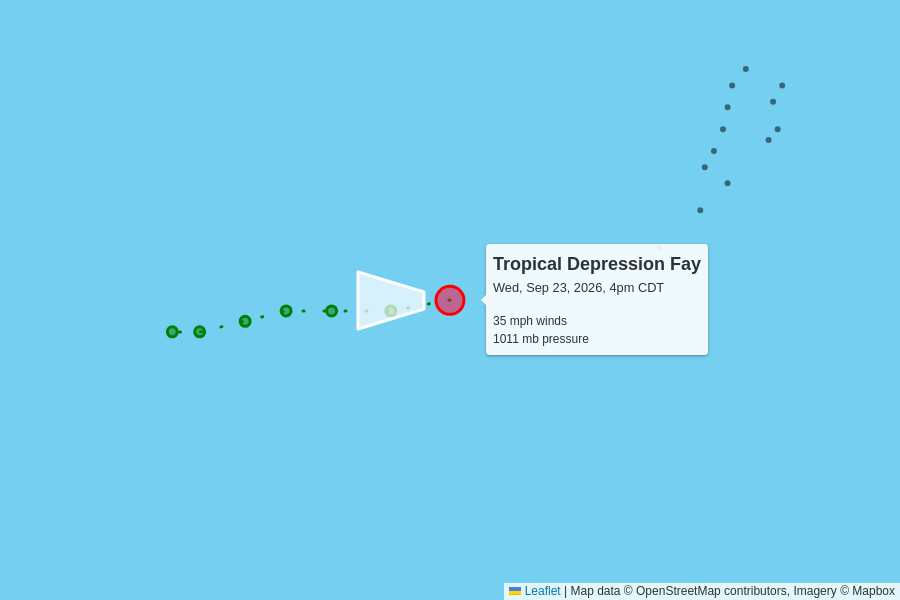
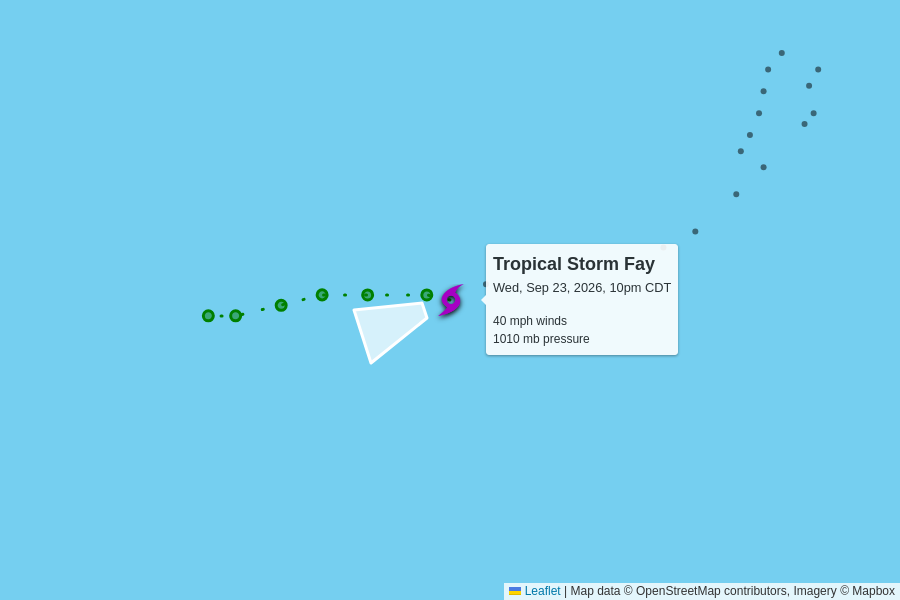
automatic update

diff --git a/docs/2026.html b/docs/2026.html
@@ -45,13 +45,13 @@
       <grid-container>
           <grid-row>
             <script type="text/json" id="storm_data_AL062026">
-              {"pressure":[{"timestamp":"2026-09-19T15:00:00.000Z","value":1009},{"timestamp":"2026-09-19T21:00:00.000Z","value":1007},{"timestamp":"2026-09-20T03:00:00.000Z","value":1007},{"timestamp":"2026-09-20T09:00:00.000Z","value":1004},{"timestamp":"2026-09-20T15:00:00.000Z","value":1004},{"timestamp":"2026-09-20T21:00:00.000Z","value":999},{"timestamp":"2026-09-21T03:00:00.000Z","value":995},{"timestamp":"2026-09-21T09:00:00.000Z","value":997},{"timestamp":"2026-09-21T15:00:00.000Z","value":1000},{"timestamp":"2026-09-21T21:00:00.000Z","value":1004},{"timestamp":"2026-09-22T03:00:00.000Z","value":1008},{"timestamp":"2026-09-22T09:00:00.000Z","value":1009},{"timestamp":"2026-09-22T15:00:00.000Z","value":1010},{"timestamp":"2026-09-22T21:00:00.000Z","value":1011},{"timestamp":"2026-09-23T21:00:00.000Z","value":1011}],"wind":[{"timestamp":"2026-09-19T15:00:00.000Z","value":35},{"timestamp":"2026-09-19T21:00:00.000Z","value":35},{"timestamp":"2026-09-20T03:00:00.000Z","value":35},{"timestamp":"2026-09-20T09:00:00.000Z","value":45},{"timestamp":"2026-09-20T15:00:00.000Z","value":60},{"timestamp":"2026-09-20T21:00:00.000Z","value":65},{"timestamp":"2026-09-21T03:00:00.000Z","value":70},{"timestamp":"2026-09-21T09:00:00.000Z","value":65},{"timestamp":"2026-09-21T15:00:00.000Z","value":50},{"timestamp":"2026-09-21T21:00:00.000Z","value":45},{"timestamp":"2026-09-22T03:00:00.000Z","value":40},{"timestamp":"2026-09-22T09:00:00.000Z","value":40},{"timestamp":"2026-09-22T15:00:00.000Z","value":35},{"timestamp":"2026-09-22T21:00:00.000Z","value":35},{"timestamp":"2026-09-23T21:00:00.000Z","value":35}]}
+              {"pressure":[{"timestamp":"2026-09-19T15:00:00.000Z","value":1009},{"timestamp":"2026-09-19T21:00:00.000Z","value":1007},{"timestamp":"2026-09-20T03:00:00.000Z","value":1007},{"timestamp":"2026-09-20T09:00:00.000Z","value":1004},{"timestamp":"2026-09-20T15:00:00.000Z","value":1004},{"timestamp":"2026-09-20T21:00:00.000Z","value":999},{"timestamp":"2026-09-21T03:00:00.000Z","value":995},{"timestamp":"2026-09-21T09:00:00.000Z","value":997},{"timestamp":"2026-09-21T15:00:00.000Z","value":1000},{"timestamp":"2026-09-21T21:00:00.000Z","value":1004},{"timestamp":"2026-09-22T03:00:00.000Z","value":1008},{"timestamp":"2026-09-22T09:00:00.000Z","value":1009},{"timestamp":"2026-09-22T15:00:00.000Z","value":1010},{"timestamp":"2026-09-22T21:00:00.000Z","value":1011},{"timestamp":"2026-09-23T21:00:00.000Z","value":1011},{"timestamp":"2026-09-24T03:00:00.000Z","value":1010}],"wind":[{"timestamp":"2026-09-19T15:00:00.000Z","value":35},{"timestamp":"2026-09-19T21:00:00.000Z","value":35},{"timestamp":"2026-09-20T03:00:00.000Z","value":35},{"timestamp":"2026-09-20T09:00:00.000Z","value":45},{"timestamp":"2026-09-20T15:00:00.000Z","value":60},{"timestamp":"2026-09-20T21:00:00.000Z","value":65},{"timestamp":"2026-09-21T03:00:00.000Z","value":70},{"timestamp":"2026-09-21T09:00:00.000Z","value":65},{"timestamp":"2026-09-21T15:00:00.000Z","value":50},{"timestamp":"2026-09-21T21:00:00.000Z","value":45},{"timestamp":"2026-09-22T03:00:00.000Z","value":40},{"timestamp":"2026-09-22T09:00:00.000Z","value":40},{"timestamp":"2026-09-22T15:00:00.000Z","value":35},{"timestamp":"2026-09-22T21:00:00.000Z","value":35},{"timestamp":"2026-09-23T21:00:00.000Z","value":35},{"timestamp":"2026-09-24T03:00:00.000Z","value":40}]}
             </script>              <grid-container class="storm">
                 <grid-row onClick="toggle('storm_AL062026')">
                   <h2>
-                    Tropical Depression Fay
+                    Tropical Storm Fay
                     <div class="updated">
-                      last updated <time datetime="2026-09-23T21:00:00.000Z">2026-09-23T21:00:00.000Z</time>
+                      last updated <time datetime="2026-09-24T03:00:00.000Z">2026-09-24T03:00:00.000Z</time>
                     </div>
                   </h2>
                 </grid-row>
@@ -67,19 +67,19 @@
                       </tr>
                       <tr>
                         <td>
-                          35 mph
+                          40 mph
                           <br>
-                          0 mph since last update
+                          +5 mph since last update
                         </td>
                         <td>
-                          1011 mb
+                          1010 mb
                           <br>
-                          0 mb since last update
+                          -1 mb since last update
                         </td>
                         <td>
-                          8 mph to the west
+                          9 mph to the west-southwest
                           <br>
-                          <span style="display: inline-block; font-size: 1.5em; transform: rotate(270deg);">↑</span>
+                          <span style="display: inline-block; font-size: 1.5em; transform: rotate(250deg);">↑</span>
                         </td>
                         <td>
                           <a href="https://raw.githubusercontent.com/mgwalker/atlantic-hurricanes/main/data/csv/AL062026.csv">AL062026.csv</a>

diff --git a/docs/index.html b/docs/index.html
@@ -45,13 +45,13 @@
       <grid-container>
           <grid-row>
             <script type="text/json" id="storm_data_AL062026">
-              {"pressure":[{"timestamp":"2026-09-19T15:00:00.000Z","value":1009},{"timestamp":"2026-09-19T21:00:00.000Z","value":1007},{"timestamp":"2026-09-20T03:00:00.000Z","value":1007},{"timestamp":"2026-09-20T09:00:00.000Z","value":1004},{"timestamp":"2026-09-20T15:00:00.000Z","value":1004},{"timestamp":"2026-09-20T21:00:00.000Z","value":999},{"timestamp":"2026-09-21T03:00:00.000Z","value":995},{"timestamp":"2026-09-21T09:00:00.000Z","value":997},{"timestamp":"2026-09-21T15:00:00.000Z","value":1000},{"timestamp":"2026-09-21T21:00:00.000Z","value":1004},{"timestamp":"2026-09-22T03:00:00.000Z","value":1008},{"timestamp":"2026-09-22T09:00:00.000Z","value":1009},{"timestamp":"2026-09-22T15:00:00.000Z","value":1010},{"timestamp":"2026-09-22T21:00:00.000Z","value":1011},{"timestamp":"2026-09-23T21:00:00.000Z","value":1011}],"wind":[{"timestamp":"2026-09-19T15:00:00.000Z","value":35},{"timestamp":"2026-09-19T21:00:00.000Z","value":35},{"timestamp":"2026-09-20T03:00:00.000Z","value":35},{"timestamp":"2026-09-20T09:00:00.000Z","value":45},{"timestamp":"2026-09-20T15:00:00.000Z","value":60},{"timestamp":"2026-09-20T21:00:00.000Z","value":65},{"timestamp":"2026-09-21T03:00:00.000Z","value":70},{"timestamp":"2026-09-21T09:00:00.000Z","value":65},{"timestamp":"2026-09-21T15:00:00.000Z","value":50},{"timestamp":"2026-09-21T21:00:00.000Z","value":45},{"timestamp":"2026-09-22T03:00:00.000Z","value":40},{"timestamp":"2026-09-22T09:00:00.000Z","value":40},{"timestamp":"2026-09-22T15:00:00.000Z","value":35},{"timestamp":"2026-09-22T21:00:00.000Z","value":35},{"timestamp":"2026-09-23T21:00:00.000Z","value":35}]}
+              {"pressure":[{"timestamp":"2026-09-19T15:00:00.000Z","value":1009},{"timestamp":"2026-09-19T21:00:00.000Z","value":1007},{"timestamp":"2026-09-20T03:00:00.000Z","value":1007},{"timestamp":"2026-09-20T09:00:00.000Z","value":1004},{"timestamp":"2026-09-20T15:00:00.000Z","value":1004},{"timestamp":"2026-09-20T21:00:00.000Z","value":999},{"timestamp":"2026-09-21T03:00:00.000Z","value":995},{"timestamp":"2026-09-21T09:00:00.000Z","value":997},{"timestamp":"2026-09-21T15:00:00.000Z","value":1000},{"timestamp":"2026-09-21T21:00:00.000Z","value":1004},{"timestamp":"2026-09-22T03:00:00.000Z","value":1008},{"timestamp":"2026-09-22T09:00:00.000Z","value":1009},{"timestamp":"2026-09-22T15:00:00.000Z","value":1010},{"timestamp":"2026-09-22T21:00:00.000Z","value":1011},{"timestamp":"2026-09-23T21:00:00.000Z","value":1011},{"timestamp":"2026-09-24T03:00:00.000Z","value":1010}],"wind":[{"timestamp":"2026-09-19T15:00:00.000Z","value":35},{"timestamp":"2026-09-19T21:00:00.000Z","value":35},{"timestamp":"2026-09-20T03:00:00.000Z","value":35},{"timestamp":"2026-09-20T09:00:00.000Z","value":45},{"timestamp":"2026-09-20T15:00:00.000Z","value":60},{"timestamp":"2026-09-20T21:00:00.000Z","value":65},{"timestamp":"2026-09-21T03:00:00.000Z","value":70},{"timestamp":"2026-09-21T09:00:00.000Z","value":65},{"timestamp":"2026-09-21T15:00:00.000Z","value":50},{"timestamp":"2026-09-21T21:00:00.000Z","value":45},{"timestamp":"2026-09-22T03:00:00.000Z","value":40},{"timestamp":"2026-09-22T09:00:00.000Z","value":40},{"timestamp":"2026-09-22T15:00:00.000Z","value":35},{"timestamp":"2026-09-22T21:00:00.000Z","value":35},{"timestamp":"2026-09-23T21:00:00.000Z","value":35},{"timestamp":"2026-09-24T03:00:00.000Z","value":40}]}
             </script>              <grid-container class="storm">
                 <grid-row onClick="toggle('storm_AL062026')">
                   <h2>
-                    Tropical Depression Fay
+                    Tropical Storm Fay
                     <div class="updated">
-                      last updated <time datetime="2026-09-23T21:00:00.000Z">2026-09-23T21:00:00.000Z</time>
+                      last updated <time datetime="2026-09-24T03:00:00.000Z">2026-09-24T03:00:00.000Z</time>
                     </div>
                   </h2>
                 </grid-row>
@@ -67,19 +67,19 @@
                       </tr>
                       <tr>
                         <td>
-                          35 mph
+                          40 mph
                           <br>
-                          0 mph since last update
+                          +5 mph since last update
                         </td>
                         <td>
-                          1011 mb
+                          1010 mb
                           <br>
-                          0 mb since last update
+                          -1 mb since last update
                         </td>
                         <td>
-                          8 mph to the west
+                          9 mph to the west-southwest
                           <br>
-                          <span style="display: inline-block; font-size: 1.5em; transform: rotate(270deg);">↑</span>
+                          <span style="display: inline-block; font-size: 1.5em; transform: rotate(250deg);">↑</span>
                         </td>
                         <td>
                           <a href="https://raw.githubusercontent.com/mgwalker/atlantic-hurricanes/main/data/csv/AL062026.csv">AL062026.csv</a>
